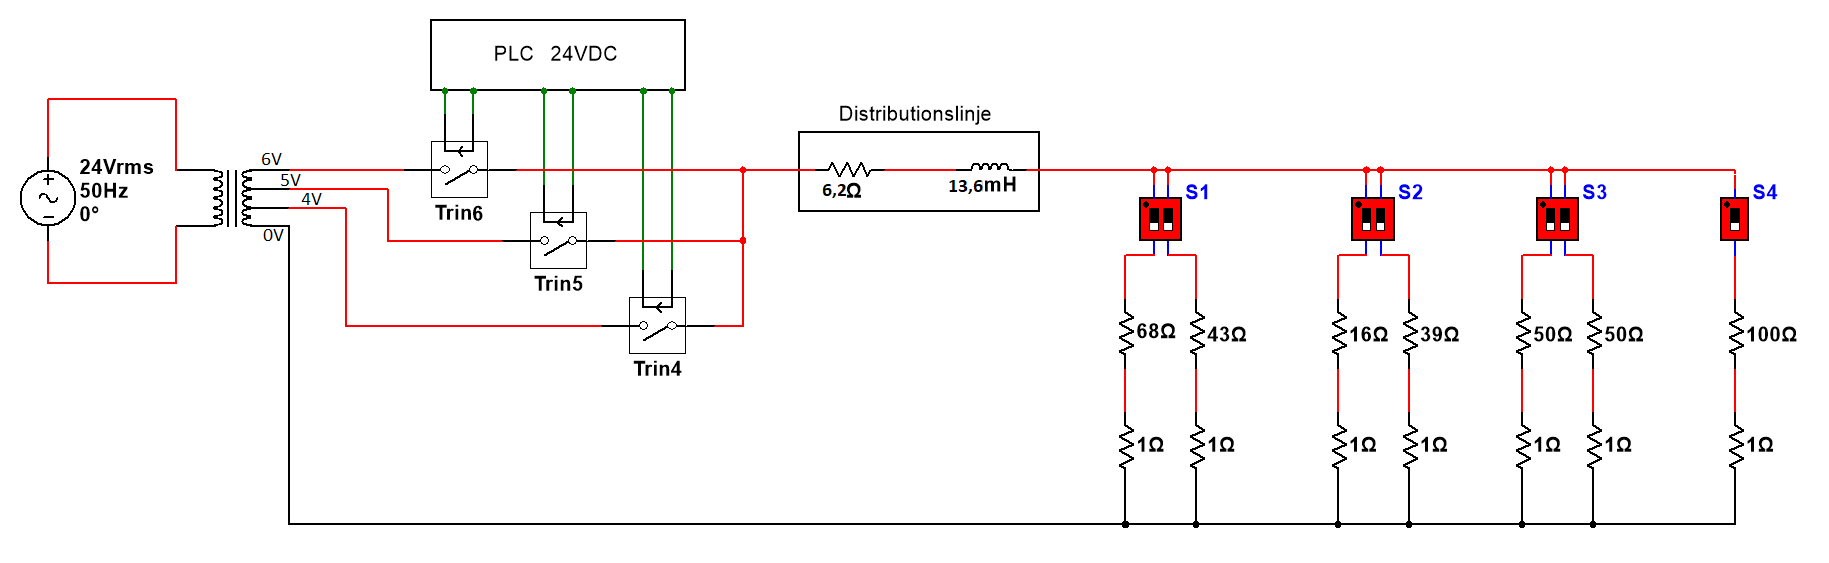
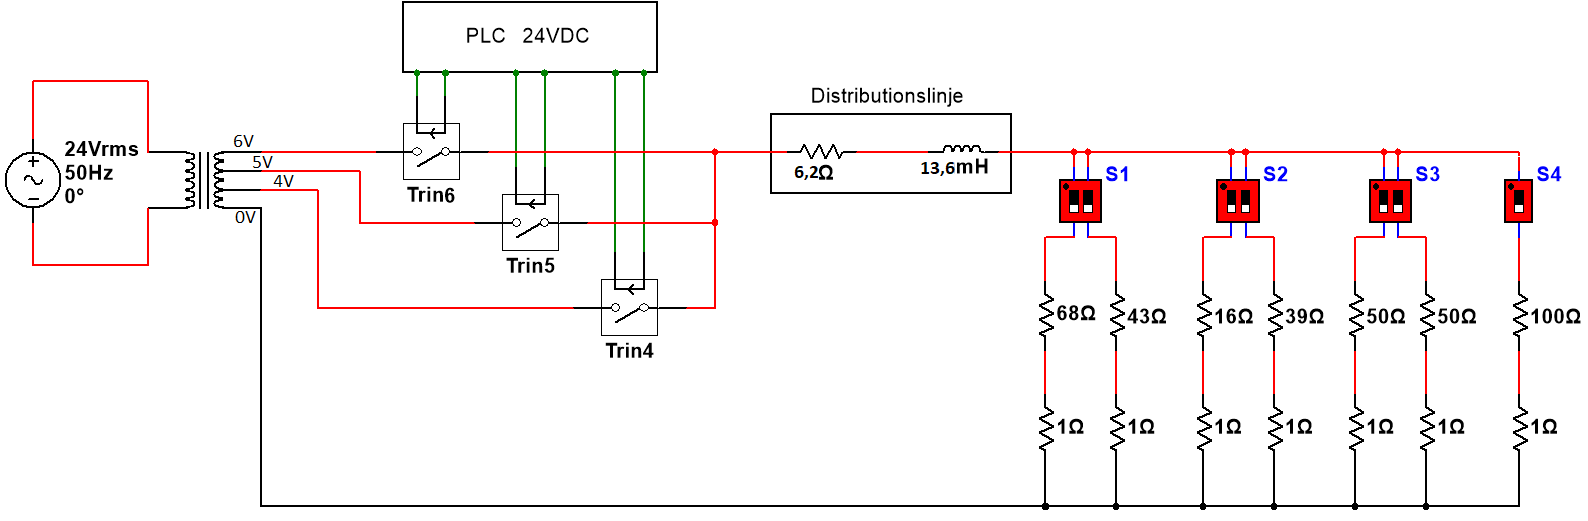
modultest trinskifter

Changed region(s): [[0.0, 0.0, 1.0, 0.9827], [0.432, 0.1536, 0.648, 0.2457], [0.9257, 0.3071, 0.9874, 0.4299]]

diff --git a/ProjektDokumentation/sektioner/Trinskifter/Modultest.tex b/ProjektDokumentation/sektioner/Trinskifter/Modultest.tex
@@ -1,16 +1,41 @@
 % !TEX root = ../../prj4projektdokumentation.tex
 
+\restylefloat{table}
+
 \section{Modultest}
 
-For at tjekke, at distributionslinjen og de forskellige belastninger giver det spændingsfald, der forventes laves en modultest af det samlede system med distributionslinje, belastninger og trinskifter. Der vælges forskellige belastninger og trin på transformeren og for hver indstilling måles spændingsfaldet over belastningen. Resultaterne heraf ses i tabellen nedenfor. 
+For at tjekke, at distributionslinjen og de forskellige belastninger giver det spændingsfald, der forventes laves en modultest af det samlede system med distributionslinje, belastninger og trinskifter. Der vælges forskellige belastninger og trin på transformeren, hvor for hver indstilling måles spændingsfaldet over belastningen. Resultaterne heraf ses i tabellen nedenfor. 
 
-\begin{center}
-	\begin{tabular}{ | m{0.2\textwidth} | m{0.8\textwidth}|} 
+
+\begin{table}[H]
+	\centering
+	\begin{tabular}{|l|l|l|l|}
 		\hline
-		\textbf{Test}					&Trinskifter. \\ \hline
-		\textbf{Testbeskrivelse}		&Spændingsfald over $16\Omega\parallel 50\Omega$ belastning passer med forventet/simuleret værdi. \\ \hline
-		\textbf{Input}					&4 V AC \\ \hline
-		\textbf{Forventet resultat}		&2,6 V målt over belastningen \\ \hline
-		\textbf{Resultat}				&Det forventede output passer, dog er vores firkant signal ikke så pænt, som vi havde regnet med. Test resultater kan ses på figurer: \ref{fig:sinustest}, \ref{fig:taktaktest}, \ref{fig:trekanttest}, \ref{fig:firkanttest}.  \\ \hline
+		\textbf{Trin} & \textbf{Belastning} & \textbf{Forventet resultat} & \textbf{Resultat} \\\hline
+		
+		\multirow{5}{*}{4 V AC} 
+		& $50 \Omega\parallel 50 \Omega$ & 3,2 V AC over belastning & 2,9 V AC målt over belastning \\\hhline{~---} 	
+		& $50 \Omega\parallel 16 \Omega$ & 2,6 V AC over belastning & 2,9 V AC målt over belastning \\\hhline{~---}
+		& $50 \Omega$ & 3,6 V AC over belastning & 2,9 V AC målt over belastning \\\hhline{~---} 	
+		& $39 \Omega$ & 3,5 V AC over belastning & 2,9 V AC målt over belastning \\\hhline{~---} 
+		& $16 \Omega$ & 2,8 V AC over belastning & 2,9 V AC målt over belastning \\\hhline{~---} 
+		& $x \Omega$ & x V AC over belastning & x V AC målt over belastning \\\hhline{~---} 
+		& $x \Omega$ & x V AC over belastning & x V AC målt over belastning \\\hline 
+	
+		
+		\multirow{5}{*}{5 V AC} 
+		& $50 \Omega\parallel 50 \Omega$ & 3,2 V AC over belastning & 2,9 V AC målt over belastning \\\hhline{~---} 	
+		& $50 \Omega\parallel 16 \Omega$ & 2,6 V AC over belastning & 2,9 V AC målt over belastning \\\hhline{~---}
+		& $50 \Omega$ & 3,6 V AC over belastning & 2,9 V AC målt over belastning \\\hhline{~---} 	
+		& $39 \Omega$ & 3,5 V AC over belastning & 2,9 V AC målt over belastning \\\hhline{~---} 
+		& $16 \Omega$ & 2,8 V AC over belastning & 2,9 V AC målt over belastning \\\hhline{~---} 
+		& $x \Omega$ & x V AC over belastning & x V AC målt over belastning \\\hhline{~---} 
+		& $x \Omega$ & x V AC over belastning & x V AC målt over belastning \\\hline 
+		
 	\end{tabular}
-\end{center}
+	\caption{Modultest for distributionslinje, belastninger og trinskifter}
+	\label{tab:Modultesttrin}
+\end{table}
+
+Det kan dermed ud fra modultesten konkluderes, at spændingen over belastningerne falder som forventet, dog med en afvigelse på maksimalt 0,5V. Afvigelsen er størst, jo lavere belastning som tilsluttes. 
+

diff --git a/ProjektDokumentation/sektioner/Design/Trinskifter.tex b/ProjektDokumentation/sektioner/Design/Trinskifter.tex
@@ -4,6 +4,12 @@
 \section{Trinskifter}
 For at kunne skifte trin og dermed spændingsniveau på tranformeren er der opbygget et kredsløb med tre kontaktrelæer - et for hvert muligt trin. Det er et krav, at relæerne skal kunne styres både automatisk og manuelt fra en PLC. Udgangssignalet fra PLC'en er 24VDC,så dette skal relæerne altså kunne holde til. På værkstedet var kun en type relæ der kan holde til 24VDC styresignal, og derfor faldt valget på disse Hengstler 468 relæer. På figuren nedenfor ses tegning af relækredsløbet samt de forskellige belastninger, der kan kobles ind via kontakter. I serie med hver belastningsmodstand sidder en 1 $\Omega$ modstand, som måleenheden måler over. 
 
-%indsæt billede af relækredsløb.
+
+\begin{figure}[H] 
+	\centering
+	\includegraphics[width=1\textwidth]{Figure/Trinskiftertegning}
+	\caption{Kredsløbstegning af distributionslinje, belastninger og trinskifter}
+	\label{fig:Trinskiftertegning}
+\end{figure}
 
 Som vist på tegningen er hvert relæ forbundet til hver sin udgang på PLC, og det er herfra de modtager styresignalet. Hvert relæ er desuden forbundet til henholdsvis trin 4, 5 og 6. Gennem en Normally Open contact er hvert relæ videre forbundet ud til distributionslinjen. Ved skift af trin fra for eksempel 4 til 5 sendes højt signal til begge trin og hereftes slukkes signalet til trin 4. Der er altså et overlap ved skift af trin, og på den måde forsvinder forsyningen til belastningen ikke undervejs. 

diff --git a/ProjektDokumentation/sektioner/Design/Belastning.tex b/ProjektDokumentation/sektioner/Design/Belastning.tex
@@ -6,7 +6,7 @@ Med denne distributionslinje og med trinskifteren, der står på 4V trinnet, kan
 
 \begin{figure}[htbp] % (alternativt [H])
 	\centering
-	\includegraphics[width=0.7\textwidth]{Figure/Belastningberegning}
+	\includegraphics[width=0.4\textwidth]{Figure/Belastningberegning}
 	\caption{Kredsløb til beregning af belastning}
 	\label{fig:Belastningberegning}
 \end{figure}
@@ -42,10 +42,10 @@ R_L^2+R_B^2+2\cdot R_L\cdot R_B+X_L^2=\frac{R_B^2}{0,81}
 \end{align}
 
 \begin{align}
-R_B^2\cdot (1-\frac{1}{0,81})+2\cdot R_L\cdot R_B+X_L^=0
+R_B^2\cdot (1-\frac{1}{0,81})+2\cdot R_L\cdot R_B+X_L=0
 \end{align}
 
-Indsætter værdier
+Værdier indsættes og herved fås:
 
 \begin{align}
 R_B^2\cdot (-0,24) +10\cdot R_B+11,94=0

diff --git a/ProjektDokumentation/prj4projektdokumentation.tex b/ProjektDokumentation/prj4projektdokumentation.tex
@@ -35,7 +35,7 @@
 \usepackage{multirow}					% For at lave pæne tabeller
 \usepackage{hhline}						% For at lave endnu pænere tabller
 \newcolumntype{C}{>{\let\newline\\\arraybackslash\hspace{0pt}}X}
-
+\usepackage{float}
 %matematik
 \usepackage{amsmath,amssymb,mathtools,bm}
 \newcommand{\tsub}[1]{_{\textup{#1}}}
